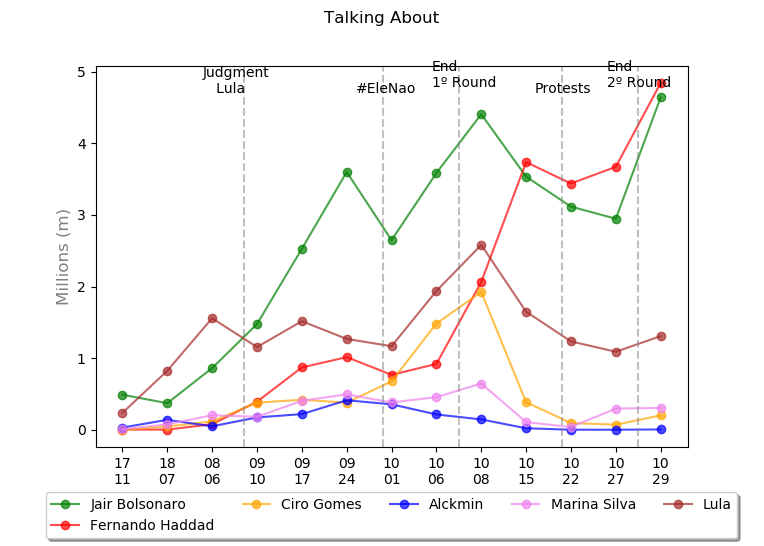
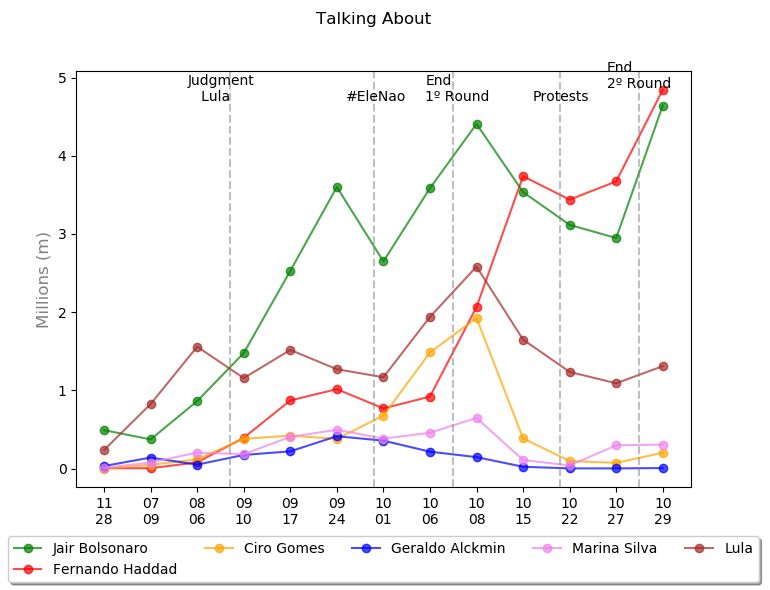
ajustanto graficos

diff --git a/Graphics/Code/graphic.py b/Graphics/Code/graphic.py
@@ -4,7 +4,6 @@ from scipy.stats import spearmanr
 from scipy.stats.stats import spearmanr
 import read_facebook as facebook
 import matplotlib.pyplot as plt
-
 import data_frames as GFrame
 import pandas as pd
 import models
@@ -13,7 +12,7 @@ import numpy as np
 import subprocess
 
 
-xticks = ["17\n11",  "18\n07",  "08\n06",  "09\n10",  "09\n17",  "09\n24",  "10\n01",  "10\n06",  "10\n08",  "10\n15",  "10\n22", "10\n27",  "10\n29"]
+xticks = ["11\n28",  "07\n09",  "08\n06",  "09\n10",  "09\n17",  "09\n24",  "10\n01",  "10\n06",  "10\n08",  "10\n15",  "10\n22", "10\n27",  "10\n29"]
 n_xticks = len(xticks)
 
 # xticks = ["10\n22", "11\n28", "11\n30", "06\n07", "06\n24", "07\n09", "08\n06", "08\n19", "08\n21", 
@@ -61,8 +60,9 @@ dic_index = {
 
 dic_lines = {
     "points": [{"x": 5.8, "negative": 0.6, "plus": 7, "text": "#EleNao"}, 
-    {"x": 2.7, "negative": 0.9, "plus": 4, "text": "Judgment\n   Lula "}, 
-    {"x": pos_result_1_round + 1.8, "negative": 0.6, "plus": 7, "text": "Protests"}]
+    {"x": 2.6, "negative": 0.9, "plus": 4, "text": "Stabbed\nBolsonaro"}, 
+    {"x": pos_result_1_round + 1.8, "negative": 0.6, "plus": 7, "text": "Protests"},
+    {"x": 3.4, "negative": 0.2, "plus": 4, "text": "    Lula\n  Replaced"}]
 }
 
 def formatter_millions(x):
@@ -91,9 +91,9 @@ def plot_graph_events(range_fim, graph_error = False):
                 plt.axvline(x=dic["x"], color='gray', linestyle='--', alpha=0.5)
 
                 if(dic["text"] == "Judgment\n   Lula "):
-                    plt.text(x = dic["x"] - dic["negative"], y =  range_fim - 8, s = dic["text"], size = 11)  
+                    plt.text(x = dic["x"] - dic["negative"], y =  range_fim - 8, s = dic["text"], size = 10.5)  
                 else:               
-                    plt.text(x = dic["x"] - dic["negative"], y =  range_fim - 5, s = dic["text"], size = 11)
+                    plt.text(x = dic["x"] - dic["negative"], y =  range_fim - 5, s = dic["text"], size = 10.5)
 
 def get_variation_graph(v_facebook, v_ibope, v_dfolha):
     v_facebook_ibope = []
@@ -463,7 +463,7 @@ def plot_like():
     plt.plot('x', 'bolsonaro_like', data=df, marker='o', color="green", ls='-', alpha=0.7, label='Jair Bolsonaro')
     plt.plot('x', 'haddad_like', data=df, marker='o', color="red", alpha=0.7, label='Fernando Haddad')  
     plt.plot('x', 'ciro_like', data=df, marker='o', color="orange", alpha=0.7, label='Ciro Gomes')
-    plt.plot('x', 'alckmin_like', data=df, marker='o', color="blue", alpha=0.7, label='Alckmin')
+    plt.plot('x', 'alckmin_like', data=df, marker='o', color="blue", alpha=0.7, label='Geraldo Alckmin')
     plt.plot('x', 'marina_like', data=df, marker='o', color="violet", alpha=0.7, label='Marina Silva')
     plt.plot('x', 'lula_like', data=df, marker='o', color="brown", alpha=0.7, label='Lula')
     # plt.plot('x', 'alvaro_like', data=df, marker='o', color="black", alpha=0.7, label='Alvaro Dias')
@@ -482,7 +482,7 @@ def plot_like():
     plt.axvline(x = pos_result_1_round - 0.5, color='gray', linestyle='--', alpha=0.5) 
     plt.text(x = pos_result_1_round - 0.5 - dic["negative"], y =  8000000 - 15, s = 'End\n1º Round', size = 10)  
     plt.axvline(x = pos_result_2_round - 0.5, color='gray', linestyle='--', alpha=0.5) 
-    plt.text(x = pos_result_2_round - 0.5- dic["negative"], y =  8000000 - 15, s = 'End\n2º Round', size = 10)  
+    plt.text(x = pos_result_2_round - 0.5- dic["negative"], y =  8300000 - 15, s = 'End\n2º Round', size = 10)  
     
     plt.legend(loc='upper center', bbox_to_anchor=(0.5, -0.11), fancybox=True, shadow=True, ncol=5)    
     ax.yaxis.set_major_formatter(FuncFormatter(lambda x, p: formatter_millions(int(x))))
@@ -508,7 +508,7 @@ def talking_about():
     plt.plot('x', 'bolsonaro_talking', data=df, marker='o', color="green", ls='-', alpha=0.7, label='Jair Bolsonaro')
     plt.plot('x', 'haddad_talking', data=df, marker='o', color="red", alpha=0.7, label='Fernando Haddad')  
     plt.plot('x', 'ciro_talking', data=df, marker='o', color="orange", alpha=0.7, label='Ciro Gomes')
-    plt.plot('x', 'alckmin_talking', data=df, marker='o', color="blue", alpha=0.7, label='Alckmin')
+    plt.plot('x', 'alckmin_talking', data=df, marker='o', color="blue", alpha=0.7, label='Geraldo Alckmin')
     plt.plot('x', 'marina_talking', data=df, marker='o', color="violet", alpha=0.7, label='Marina Silva')
     plt.plot('x', 'lula_talking', data=df, marker='o', color="brown", alpha=0.7, label='Lula')
     # plt.plot('x', 'alvaro_talking', data=df, marker='o', color="black", alpha=0.7, label='Alvaro Dias')    
@@ -524,9 +524,9 @@ def talking_about():
             plt.text(x = dic["x"] - dic["negative"], y =  4700000 - 3, s = dic["text"], size = 10)  
 
     plt.axvline(x= pos_result_1_round - 0.5, color='gray', linestyle='--', alpha=0.5) 
-    plt.text(x = pos_result_1_round - 0.5 - dic["negative"], y =  4800000 - 12008, s = 'End\n1º Round', size = 10)  
+    plt.text(x = pos_result_1_round - 0.5 - dic["negative"], y =  4700000 - 8, s = 'End\n1º Round', size = 10)  
     plt.axvline(x= pos_result_2_round - 0.5, color='gray', linestyle='--', alpha=0.5) 
-    plt.text(x = pos_result_2_round - 0.6 - dic["negative"], y =  4800000 - 10000, s = 'End\n2º Round', size = 10)  
+    plt.text(x = pos_result_2_round - 0.6 - dic["negative"], y =  4880000 - 10000, s = 'End\n2º Round', size = 10)  
 
     plt.legend(loc='upper center', bbox_to_anchor=(0.5, -0.1), fancybox=True, shadow=True, ncol=5)
     ax.yaxis.set_major_formatter(FuncFormatter(lambda x, p: formatter_millions(int(x))))
@@ -534,27 +534,27 @@ def talking_about():
 
     plt.show()    
 
-def plot_engagement():
+def plot_interest():
         
     df = pd.DataFrame(
         {
             'x': range(0, len(models.data_reader.candidates[i_bolsonaro].facebook_engagement)), 
-            'bolsonaro_engagement': models.data_reader.candidates[i_bolsonaro].facebook_engagement, 'ciro_engagement': models.data_reader.candidates[i_ciro].facebook_engagement,
-            'haddad_engagement': models.data_reader.candidates[i_haddad].facebook_engagement, 'marina_engagement': models.data_reader.candidates[i_marina].facebook_engagement,
-            'alckmin_engagement': models.data_reader.candidates[i_alckmin].facebook_engagement, 'lula_engagement': models.data_reader.candidates[i_lula].facebook_engagement,
-            'alvaro_engagement': models.data_reader.candidates[i_alvaro].facebook_engagement
+            'bolsonaro_interest': models.data_reader.candidates[i_bolsonaro].facebook_engagement, 'ciro_interest': models.data_reader.candidates[i_ciro].facebook_engagement,
+            'haddad_interest': models.data_reader.candidates[i_haddad].facebook_engagement, 'marina_interest': models.data_reader.candidates[i_marina].facebook_engagement,
+            'alckmin_interest': models.data_reader.candidates[i_alckmin].facebook_engagement, 'lula_interest': models.data_reader.candidates[i_lula].facebook_engagement,
+            'alvaro_interest': models.data_reader.candidates[i_alvaro].facebook_engagement
         })
 
     count_x = len(models.data_reader.candidates[i_bolsonaro].facebook_engagement)
 
     fig, ax = plt.subplots()
-    plt.suptitle('Engagement')  
-    plt.plot('x', 'bolsonaro_engagement', data=df, marker='o', color="green", ls='-', alpha=0.7, label='Jair Bolsonaro')
-    plt.plot('x', 'haddad_engagement', data=df, marker='o', color="red", alpha=0.7, label='Fernando Haddad')  
-    plt.plot('x', 'ciro_engagement', data=df, marker='o', color="orange", alpha=0.7, label='Ciro Gomes')
-    plt.plot('x', 'alckmin_engagement', data=df, marker='o', color="blue", alpha=0.7, label='Alckmin')
-    plt.plot('x', 'marina_engagement', data=df, marker='o', color="violet", alpha=0.7, label='Marina Silva')
-    plt.plot('x', 'lula_engagement', data=df, marker='o', color="brown", alpha=0.7, label='Lula')
+    plt.suptitle('Interest')  
+    plt.plot('x', 'bolsonaro_interest', data=df, marker='o', color="green", ls='-', alpha=0.7, label='Jair Bolsonaro')
+    plt.plot('x', 'haddad_interest', data=df, marker='o', color="red", alpha=0.7, label='Fernando Haddad')  
+    plt.plot('x', 'ciro_interest', data=df, marker='o', color="orange", alpha=0.7, label='Ciro Gomes')
+    plt.plot('x', 'alckmin_interest', data=df, marker='o', color="blue", alpha=0.7, label='Geraldo Alckmin')
+    plt.plot('x', 'marina_interest', data=df, marker='o', color="violet", alpha=0.7, label='Marina Silva')
+    plt.plot('x', 'lula_interest', data=df, marker='o', color="brown", alpha=0.7, label='Lula')
     # plt.plot('x', 'alvaro_engagement', data=df, marker='o', color="black", alpha=0.7, label='Alvaro Dias')
     
     plt.xticks(range(0, count_x), xticks)
@@ -569,15 +569,67 @@ def plot_engagement():
             plt.text(x = dic["x"] - dic["negative"], y =  20000000 - 5, s = dic["text"], size = 10)  
 
     plt.axvline(x=pos_result_1_round - 0.5, color='gray', linestyle='--', alpha=0.5) 
-    plt.text(x = pos_result_1_round - 0.5 - dic["negative"], y =  20000000 - 15, s = 'End\n1º Round', size = 10)  
+    plt.text(x = pos_result_1_round - 0.5 - dic["negative"], y =  19000000 - 8, s = 'End\n1º Round', size = 10)  
     plt.axvline(x=pos_result_2_round - 0.5, color='gray', linestyle='--', alpha=0.5) 
-    plt.text(x = pos_result_2_round - 0.5 - dic["negative"], y =  20000000 - 15, s = 'End\n2º Round', size = 10)  
+    plt.text(x = pos_result_2_round - 0.5 - dic["negative"], y =  19000000 - 8, s = 'End\n2º Round', size = 10)  
     
     plt.legend(loc='upper center', bbox_to_anchor=(0.5, -0.11), fancybox=True, shadow=True, ncol=5)    
     ax.yaxis.set_major_formatter(FuncFormatter(lambda x, p: formatter_millions(int(x))))
     plt.ylabel("Millions (m)", multialignment='center', color='gray', fontsize=12)
 
     plt.show()
+
+def plot_scoreVsLike():
+    count_x = len(models.data_reader.candidates[0].dfolha_score)
+    plot_graph("scoreVSlike.png", GFrame.ScoreVsLike.data_frame, 3, 2, 0, 90, count_x, "Likes x Score", False, True, True, 18, 10, 1.2, -0.20, True, True,
+    0.3, [0, 0, 0, 0, 0], [90, 50, 30, 30, 30])
+    count_x = len(models.data_reader.candidates[i_bolsonaro].dfolha_score)
+
+def plot_score():
+
+    for index in [i_ciro, i_marina, i_alckmin]:
+        for (i, item) in enumerate(models.data_reader.candidates[index].ibope_score):
+            if item < 0:
+                models.data_reader.candidates[index].ibope_score[i] = 0
+        
+    df = pd.DataFrame(
+        {
+            'x': range(0, len(models.data_reader.candidates[i_bolsonaro].ibope_score)), 
+            'bolsonaro_score': models.data_reader.candidates[i_bolsonaro].ibope_score, 'ciro_score': models.data_reader.candidates[i_ciro].ibope_score,
+            'haddad_score': models.data_reader.candidates[i_haddad].ibope_score, 'marina_score': models.data_reader.candidates[i_marina].ibope_score,
+            'alckmin_score': models.data_reader.candidates[i_alckmin].ibope_score
+        })
+
+    count_x = len(models.data_reader.candidates[i_bolsonaro].ibope_score)
+
+    fig, ax = plt.subplots()
+    plt.suptitle('Score')  
+    plt.plot('x', 'bolsonaro_score', data=df, marker='o', color="green", ls='-', alpha=0.7, label='Jair Bolsonaro')
+    plt.plot('x', 'haddad_score', data=df, marker='o', color="red", alpha=0.7, label='Fernando Haddad')  
+    plt.plot('x', 'ciro_score', data=df, marker='o', color="orange", alpha=0.7, label='Ciro Gomes')
+    plt.plot('x', 'alckmin_score', data=df, marker='o', color="blue", alpha=0.7, label='Geraldo Alckmin')
+    plt.plot('x', 'marina_score', data=df, marker='o', color="violet", alpha=0.7, label='Marina Silva')
+    
+    plt.xticks(range(0, count_x), xticks)
+
+    #Eventos    
+    for dic in dic_lines["points"]:
+        plt.axvline(x=dic["x"], color='gray', linestyle='--', alpha=0.5)
+
+        if(dic["text"] == "Judgment\n   Lula "):
+            plt.text(x = dic["x"] - dic["negative"], y =  52, s = dic["text"], size = 10)  
+        else:               
+            plt.text(x = dic["x"] - dic["negative"], y =  52, s = dic["text"], size = 10)  
+
+    plt.axvline(x=pos_result_1_round - 0.5, color='gray', linestyle='--', alpha=0.5) 
+    plt.text(x = pos_result_1_round - 0.5 - dic["negative"], y =  52, s = 'End\n1º Round', size = 10)  
+    plt.axvline(x=pos_result_2_round - 0.5, color='gray', linestyle='--', alpha=0.5) 
+    plt.text(x = pos_result_2_round - 0.5 - dic["negative"], y =  54, s = 'End\n2º Round', size = 10)  
+    
+    plt.legend(loc='upper center', bbox_to_anchor=(0.5, -0.11), fancybox=True, shadow=True, ncol=5)    
+    plt.ylabel("Score (%)", multialignment='center', color='gray', fontsize=12)
+    plt.show()
+
 
 def cal_correlation():
 
@@ -595,7 +647,7 @@ def cal_correlation():
         if(c.name not in candidates):
             i = models.return_index(c.name)
             qtd_ptos = 9
-            pt_ini = 0
+            pt_ini = 2
 
             # if(c.name == "Jair Bolsonaro" or c.name == "Fernando Haddad"):
             #     qtd_ptos = 13
@@ -605,15 +657,15 @@ def cal_correlation():
             #     qtd_ptos = 9
             #     pt_ini = 1
 
-            # v = models.data_reader.candidates[i].dfolha_male[pt_ini:qtd_ptos]
+            v = models.data_reader.candidates[i].dfolha_male[pt_ini:qtd_ptos]
 
             print(c.name)
-            # cal_correlacao_gender(pt_ini, qtd_ptos)
-            # cal_correlacao_region(pt_ini, qtd_ptos)
-            cal_correlacao_facebook(i, pt_ini, qtd_ptos)
+            cal_correlacao_gender(i, pt_ini, qtd_ptos)
+            # cal_correlacao_region(i, pt_ini, qtd_ptos)
+            # cal_correlacao_facebook(i, pt_ini, qtd_ptos)
            
 def cal_correlacao_gender(i, pt_ini, qtd_ptos):
-    # corr, p_value = spearmanr(models.data_reader.candidates[i].dfolha_male[pt_ini:qtd_ptos], models.data_reader.candidates[i].facebook_male[pt_ini:qtd_ptos])
+    corr, p_value = spearmanr(models.data_reader.candidates[i].dfolha_male[pt_ini:qtd_ptos], models.data_reader.candidates[i].facebook_male[pt_ini:qtd_ptos])
     print('DFolha Male: ' + str(corr))
     corr, p_value = spearmanr(models.data_reader.candidates[i].dfolha_female[pt_ini:qtd_ptos], models.data_reader.candidates[i].facebook_female[pt_ini:qtd_ptos])
     print('DFolha Female: ' + str(corr))

diff --git a/Graphics/Code/data_frames.py b/Graphics/Code/data_frames.py
@@ -14,6 +14,9 @@ i_marina = models.return_index("Marina Silva")
 i_alckmin = models.return_index("Geraldo Alckmin")
 i_alvaro = models.return_index("Alvaro Dias")
 
+d_pesquisa = 1
+d_facebook = 100000
+
 class Gender:
     data_frame_1 = [pd.DataFrame(
     {
@@ -794,3 +797,66 @@ class Education:
         # 'Alvaro Dias-Ensino Superior-Distribuition Facebook': models.data_distribuition.facebook_education_superior,
         # 'Alvaro Dias-Ensino Superior-Distribuition Census': models.data_distribuition.census_education_superior
     })]
+
+class ScoreVsLike:
+
+    data_frame = [        
+        pd.DataFrame(
+        {
+            'x': range(0, len(models.data_reader.candidates[i_bolsonaro].dfolha_score)), 
+            'Jair Bolsonaro-Jair Bolsonaro-DataFolha': [x/d_pesquisa for x in models.data_reader.candidates[i_bolsonaro].dfolha_score], 'Jair Bolsonaro-Jair Bolsonaro-IBOPE': [x/d_pesquisa for x in models.data_reader.candidates[i_bolsonaro].ibope_score],
+            'Jair Bolsonaro-Jair Bolsonaro-Facebook':  [x/d_facebook for x in models.data_reader.candidates[i_bolsonaro].facebook_likes]
+        }),
+        pd.DataFrame(
+        {
+            'x': range(0, len(models.data_reader.candidates[i_haddad].dfolha_score)), 
+            'Fernando Haddad-Fernando Haddad-DataFolha': [x/d_pesquisa for x in models.data_reader.candidates[i_haddad].dfolha_score], 'Fernando Haddad-Fernando Haddad-IBOPE':  [x/d_pesquisa for x in models.data_reader.candidates[i_haddad].ibope_score],
+            'Fernando Haddad-Fernando Haddad-Facebook':  [x/d_facebook for x in models.data_reader.candidates[i_haddad].facebook_likes]
+        }),
+        pd.DataFrame(
+        {
+            'x': range(0, len(models.data_reader.candidates[i_ciro].dfolha_score)), 
+            'Ciro Gomes-Ciro Gomes-DataFolha': [x/d_pesquisa for x in models.data_reader.candidates[i_ciro].dfolha_score], 'Ciro Gomes-Ciro Gomes-IBOPE': [x/d_pesquisa for x in models.data_reader.candidates[i_ciro].ibope_score],
+            'Ciro Gomes-Ciro Gomes-Facebook':  [x/d_facebook for x in models.data_reader.candidates[i_ciro].facebook_likes]
+        }),
+        pd.DataFrame(
+        {
+            'x': range(0, len(models.data_reader.candidates[i_marina].dfolha_score)), 
+            'Marina Silva-Marina Silva-DataFolha': [x/d_pesquisa for x in models.data_reader.candidates[i_ciro].dfolha_score], 'Marina Silva-Marina Silva-IBOPE': [x/d_pesquisa for x in models.data_reader.candidates[i_marina].ibope_score],
+            'Marina Silva-Marina Silva-Facebook':  [x/d_facebook for x in models.data_reader.candidates[i_marina].facebook_likes]
+        }),       
+        pd.DataFrame(
+        {
+            'x': range(0, len(models.data_reader.candidates[i_alckmin].dfolha_score)), 
+            'Geraldo Alckmin-Geraldo Alckmin-DataFolha': [x/d_pesquisa for x in models.data_reader.candidates[i_alckmin].dfolha_score], 'Geraldo Alckmin-Geraldo Alckmin-IBOPE': [x/d_pesquisa for x in models.data_reader.candidates[i_marina].ibope_score],
+            'Geraldo Alckmin-Geraldo Alckmin-Facebook':  [x/d_facebook for x in models.data_reader.candidates[i_marina].facebook_likes]
+        })]
+
+class Score:
+
+    data_frame = [        
+        pd.DataFrame(
+        {
+            'x': range(0, len(models.data_reader.candidates[i_bolsonaro].dfolha_score)), 
+            'Jair Bolsonaro-Jair Bolsonaro-DataFolha': models.data_reader.candidates[i_bolsonaro].dfolha_score, 'Jair Bolsonaro-Jair Bolsonaro-IBOPE': models.data_reader.candidates[i_bolsonaro].ibope_score
+        }),
+        pd.DataFrame(
+        {
+            'x': range(0, len(models.data_reader.candidates[i_haddad].dfolha_score)), 
+            'Fernando Haddad-Fernando Haddad-DataFolha': models.data_reader.candidates[i_haddad].dfolha_score, 'Fernando Haddad-Fernando Haddad-IBOPE':  models.data_reader.candidates[i_haddad].ibope_score
+        }),
+        pd.DataFrame(
+        {
+            'x': range(0, len(models.data_reader.candidates[i_ciro].dfolha_score)), 
+            'Ciro Gomes-Ciro Gomes-DataFolha': models.data_reader.candidates[i_ciro].dfolha_score, 'Ciro Gomes-Ciro Gomes-IBOPE': models.data_reader.candidates[i_ciro].ibope_score
+        }),
+        pd.DataFrame(
+        {
+            'x': range(0, len(models.data_reader.candidates[i_marina].dfolha_score)), 
+            'Marina Silva-Marina Silva-DataFolha': models.data_reader.candidates[i_ciro].dfolha_score, 'Marina Silva-Marina Silva-IBOPE': models.data_reader.candidates[i_marina].ibope_score
+        }),       
+        pd.DataFrame(
+        {
+            'x': range(0, len(models.data_reader.candidates[i_alckmin].dfolha_score)), 
+            'Geraldo Alckmin-Geraldo Alckmin-DataFolha': models.data_reader.candidates[i_alckmin].dfolha_score, 'Geraldo Alckmin-Geraldo Alckmin-IBOPE': models.data_reader.candidates[i_marina].ibope_score
+        })]

diff --git a/Graphics/Code/main.py b/Graphics/Code/main.py
@@ -11,13 +11,15 @@ def main():
     # graphic.plot_gender()
     # graphic.plot_region()
     # graphic.plot_age()
-    #  graphic.plot_education()
+    # graphic.plot_education()
     
     # graphic.plot_like()
     # graphic.talking_about()
-    # graphic.plot_engagement()
+    # graphic.plot_interest()
+    # graphic.plot_scoreVsLike()
+    # graphic.plot_score()
 
-    graphic.cal_correlation()
+    # graphic.cal_correlation()
 
 if __name__ == "__main__":
     main()
